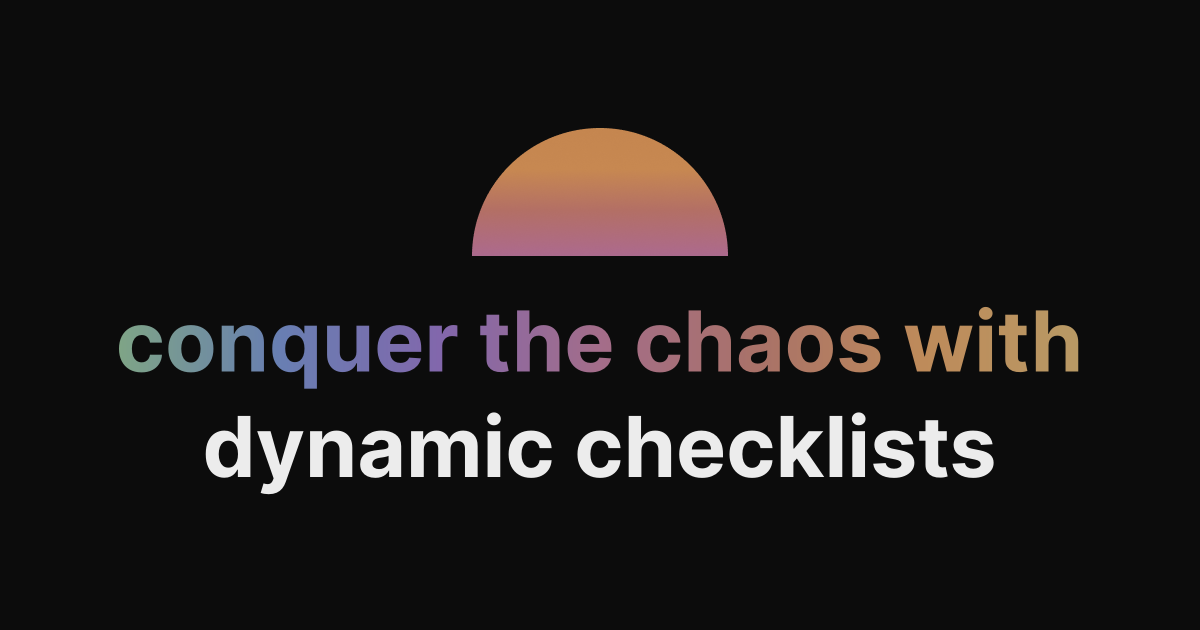
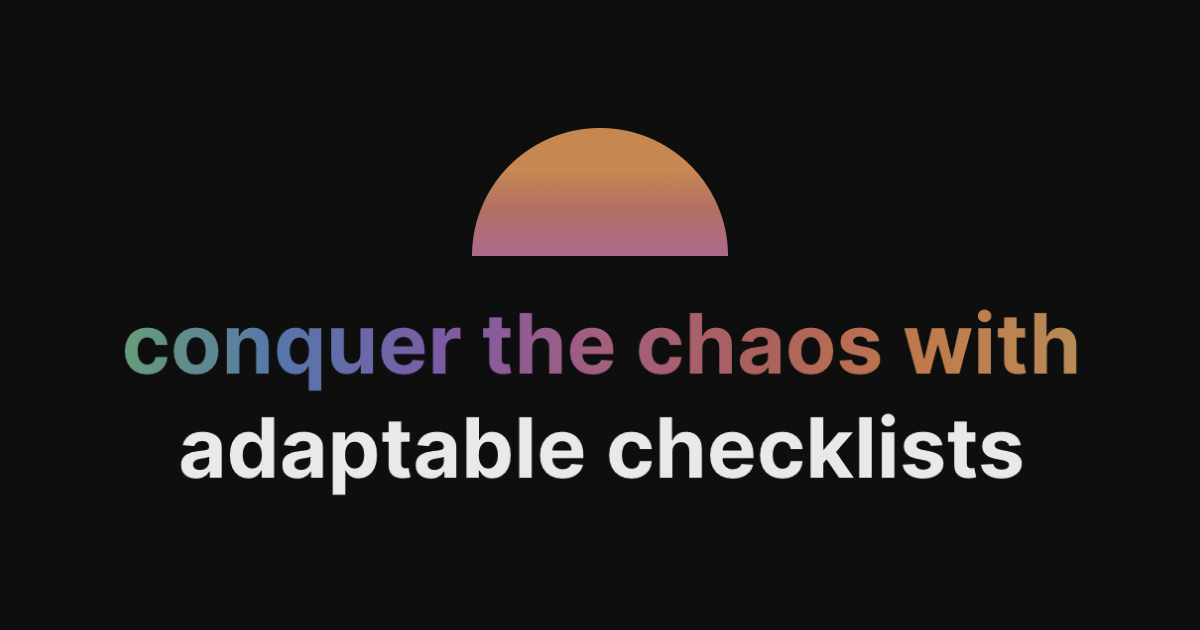
dynamic -> adaptable

Changed region(s): [[0.1542, 0.6333, 0.8633, 0.7841], [0.0925, 0.4825, 0.8942, 0.6333]]

diff --git a/src/seo.ts b/src/seo.ts
@@ -1,9 +1,9 @@
 const name = 'llist';
-const title = 'llist — dynamic checklists';
+const title = 'llist — adaptable checklists';
 const url = 'https://llist.app';
 
 const description =
-  'The free and open source dynamic checklist web app that nobody asked for. Categorize and tag list items to generate checklists on the fly.';
+  'The free and open source adaptable checklist web app that nobody asked for. Categorize and tag list items to generate checklists on the fly.';
 
 const seo = {
   additionalLinkTags: [
@@ -22,7 +22,7 @@ const seo = {
   description: description,
   openGraph: {
     description,
-    images: [{ alt: 'conquer the chaos with dynamic checklists', height: 630, url: `${url}/og.png`, width: 1200 }],
+    images: [{ alt: 'conquer the chaos with adaptable checklists', height: 630, url: `${url}/og.png`, width: 1200 }],
     locale: 'en_US',
     site_name: name,
     title: title,

diff --git a/src/pages/wtf.tsx b/src/pages/wtf.tsx
@@ -9,7 +9,7 @@ const WtfPage = () => (
   <C.Container maxW={{ base: 'container.xs', sm: 'container.md' }} pb={24} textAlign="center">
     <C.Box as="header">
       <C.Heading alignItems="center" as="h1" display="flex" justifyContent="space-between" pt={8}>
-        <C.VisuallyHidden>llist — dynamic checklists</C.VisuallyHidden>
+        <C.VisuallyHidden>llist — adaptable checklists</C.VisuallyHidden>
         <C.Icon aria-hidden as={Logo} h={10} w="auto" />
         <C.Icon aria-hidden as={LogoIcon} h={10} w="auto" />
       </C.Heading>
@@ -21,7 +21,7 @@ const WtfPage = () => (
         >
           conquer the chaos with
         </C.Box>{' '}
-        dynamic checklists
+        adaptable checklists
       </C.Heading>
       <C.Button
         as={Link}

diff --git a/README.md b/README.md
@@ -1,6 +1,9 @@
 # llist
 
-> Dynamic checklists.
+&ldquo;Adaptable checklists&rdquo; are **reusable** and **easily tailored** for different situations. For instance, a
+packing list for a domestic trip may include &ldquo;clothes&rdquo; and &ldquo;toiletries&rdquo; but not
+&ldquo;passport&rdquo;. By pre-organizing list items with categories and tags, you can quickly generate checklists for
+any occasion in a matter of seconds.
 
 ## Development Setup
 
